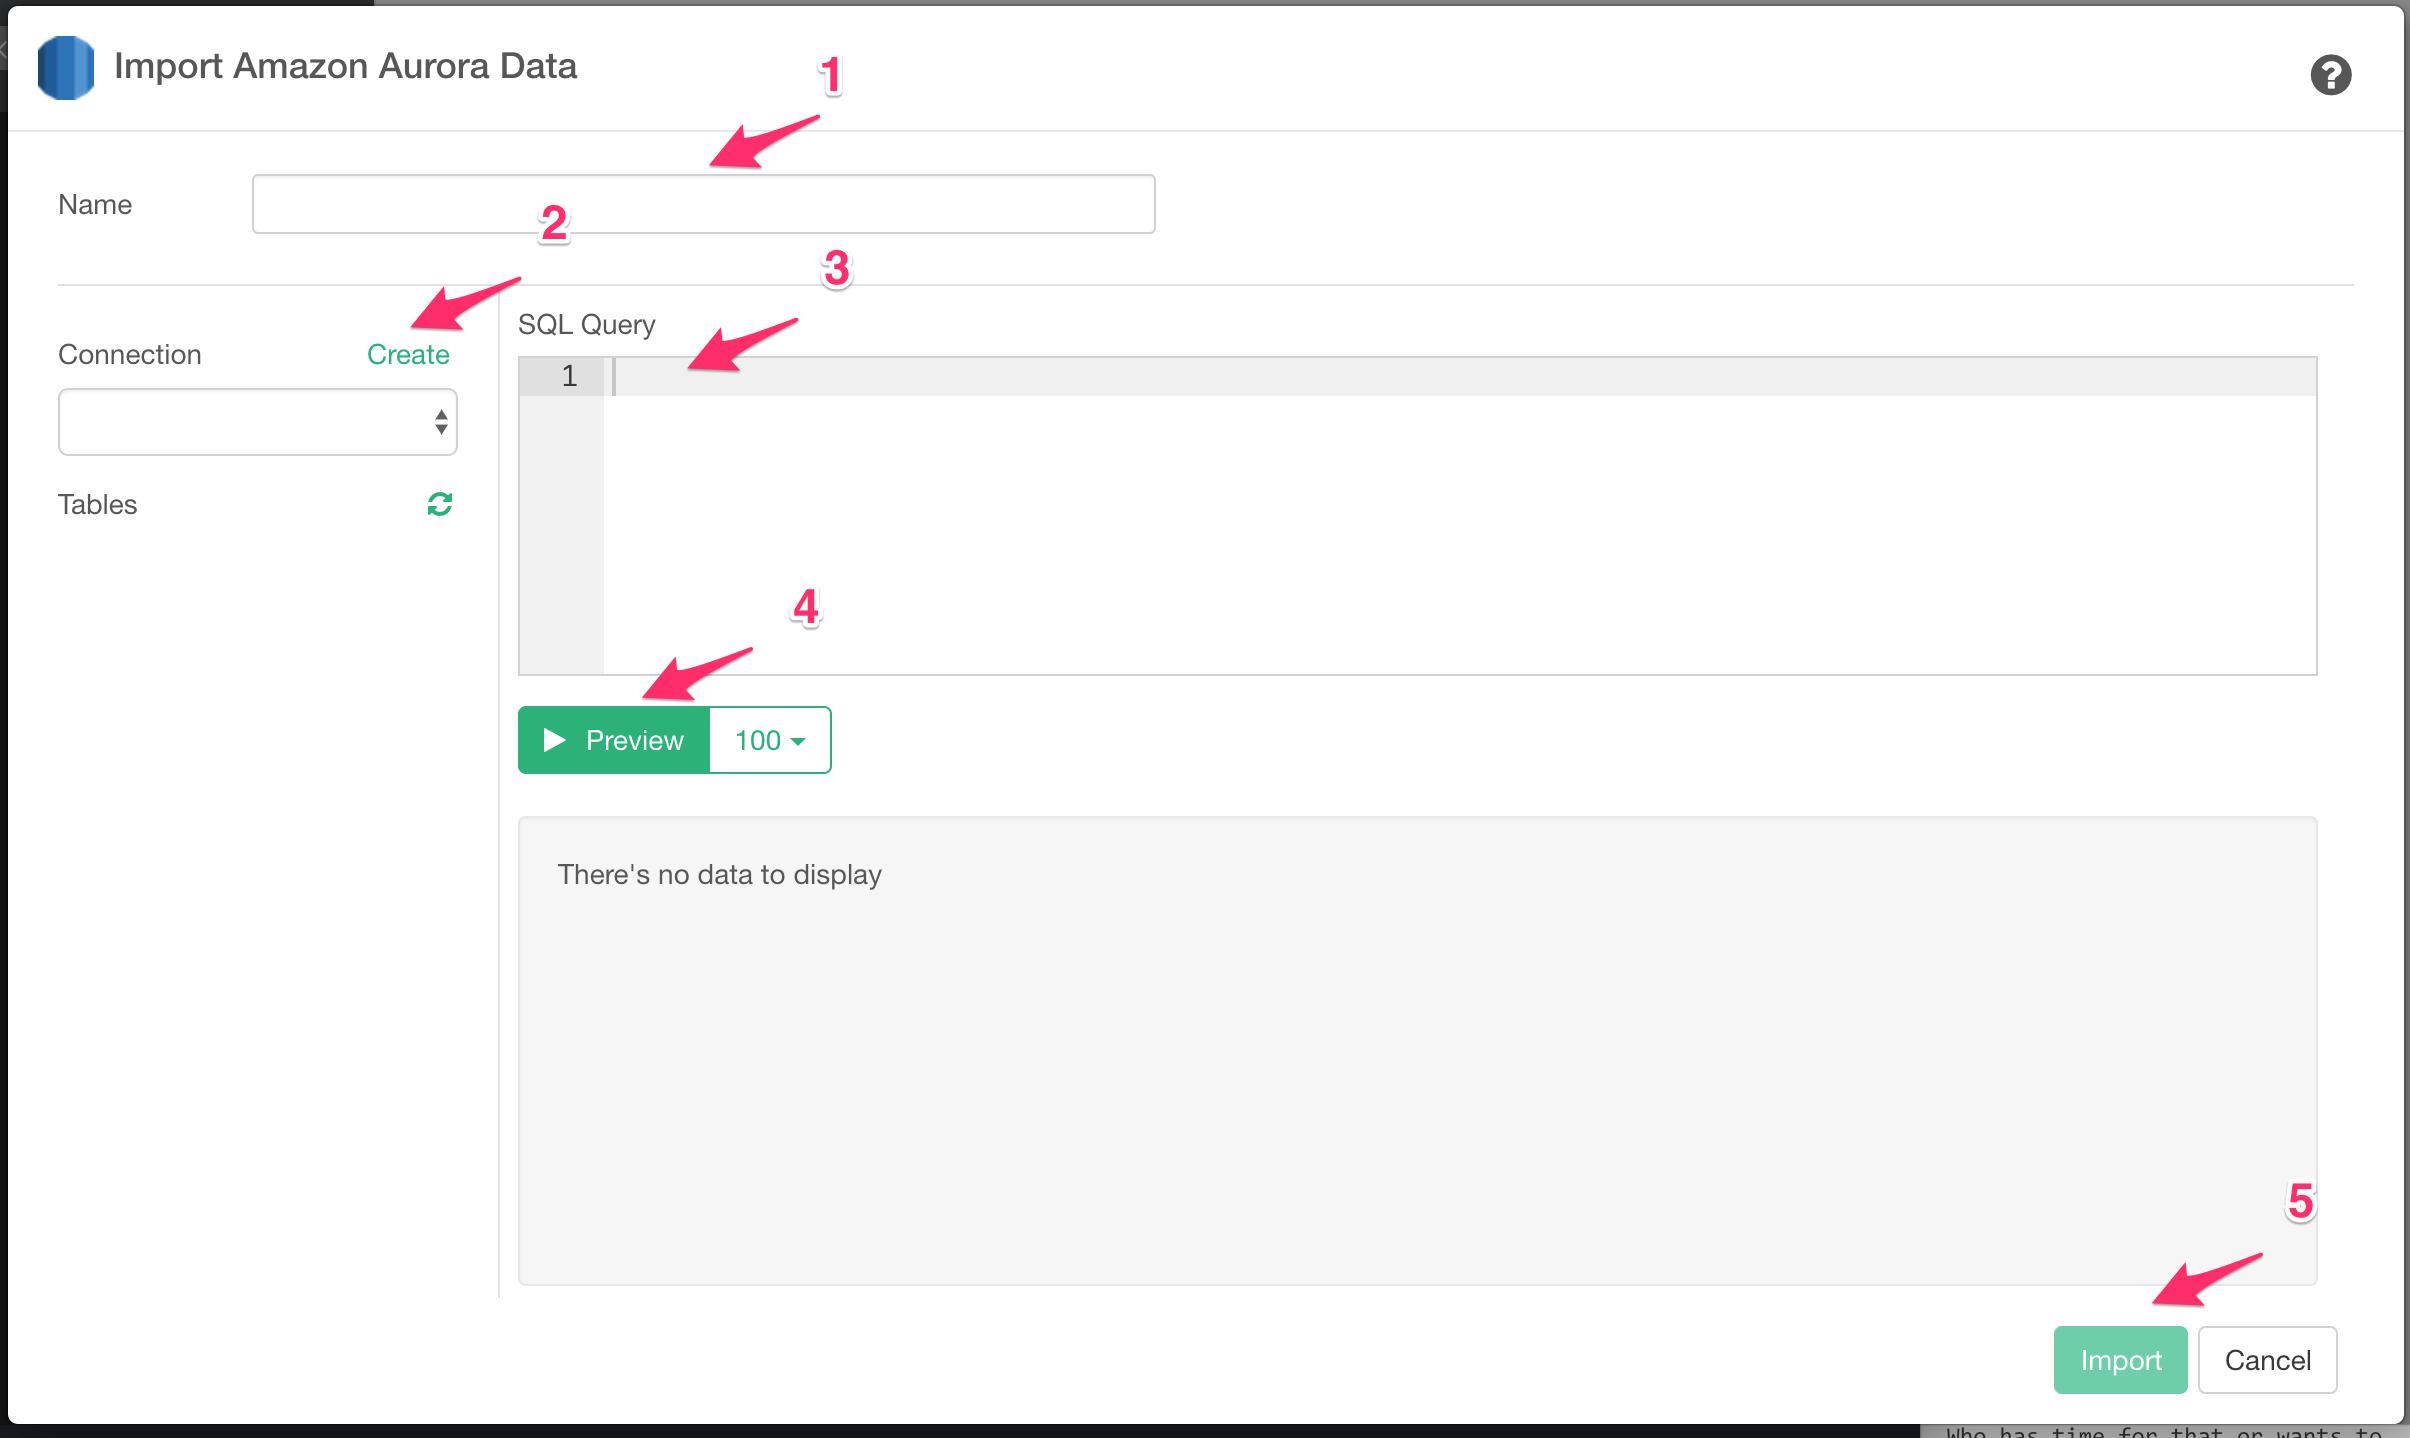
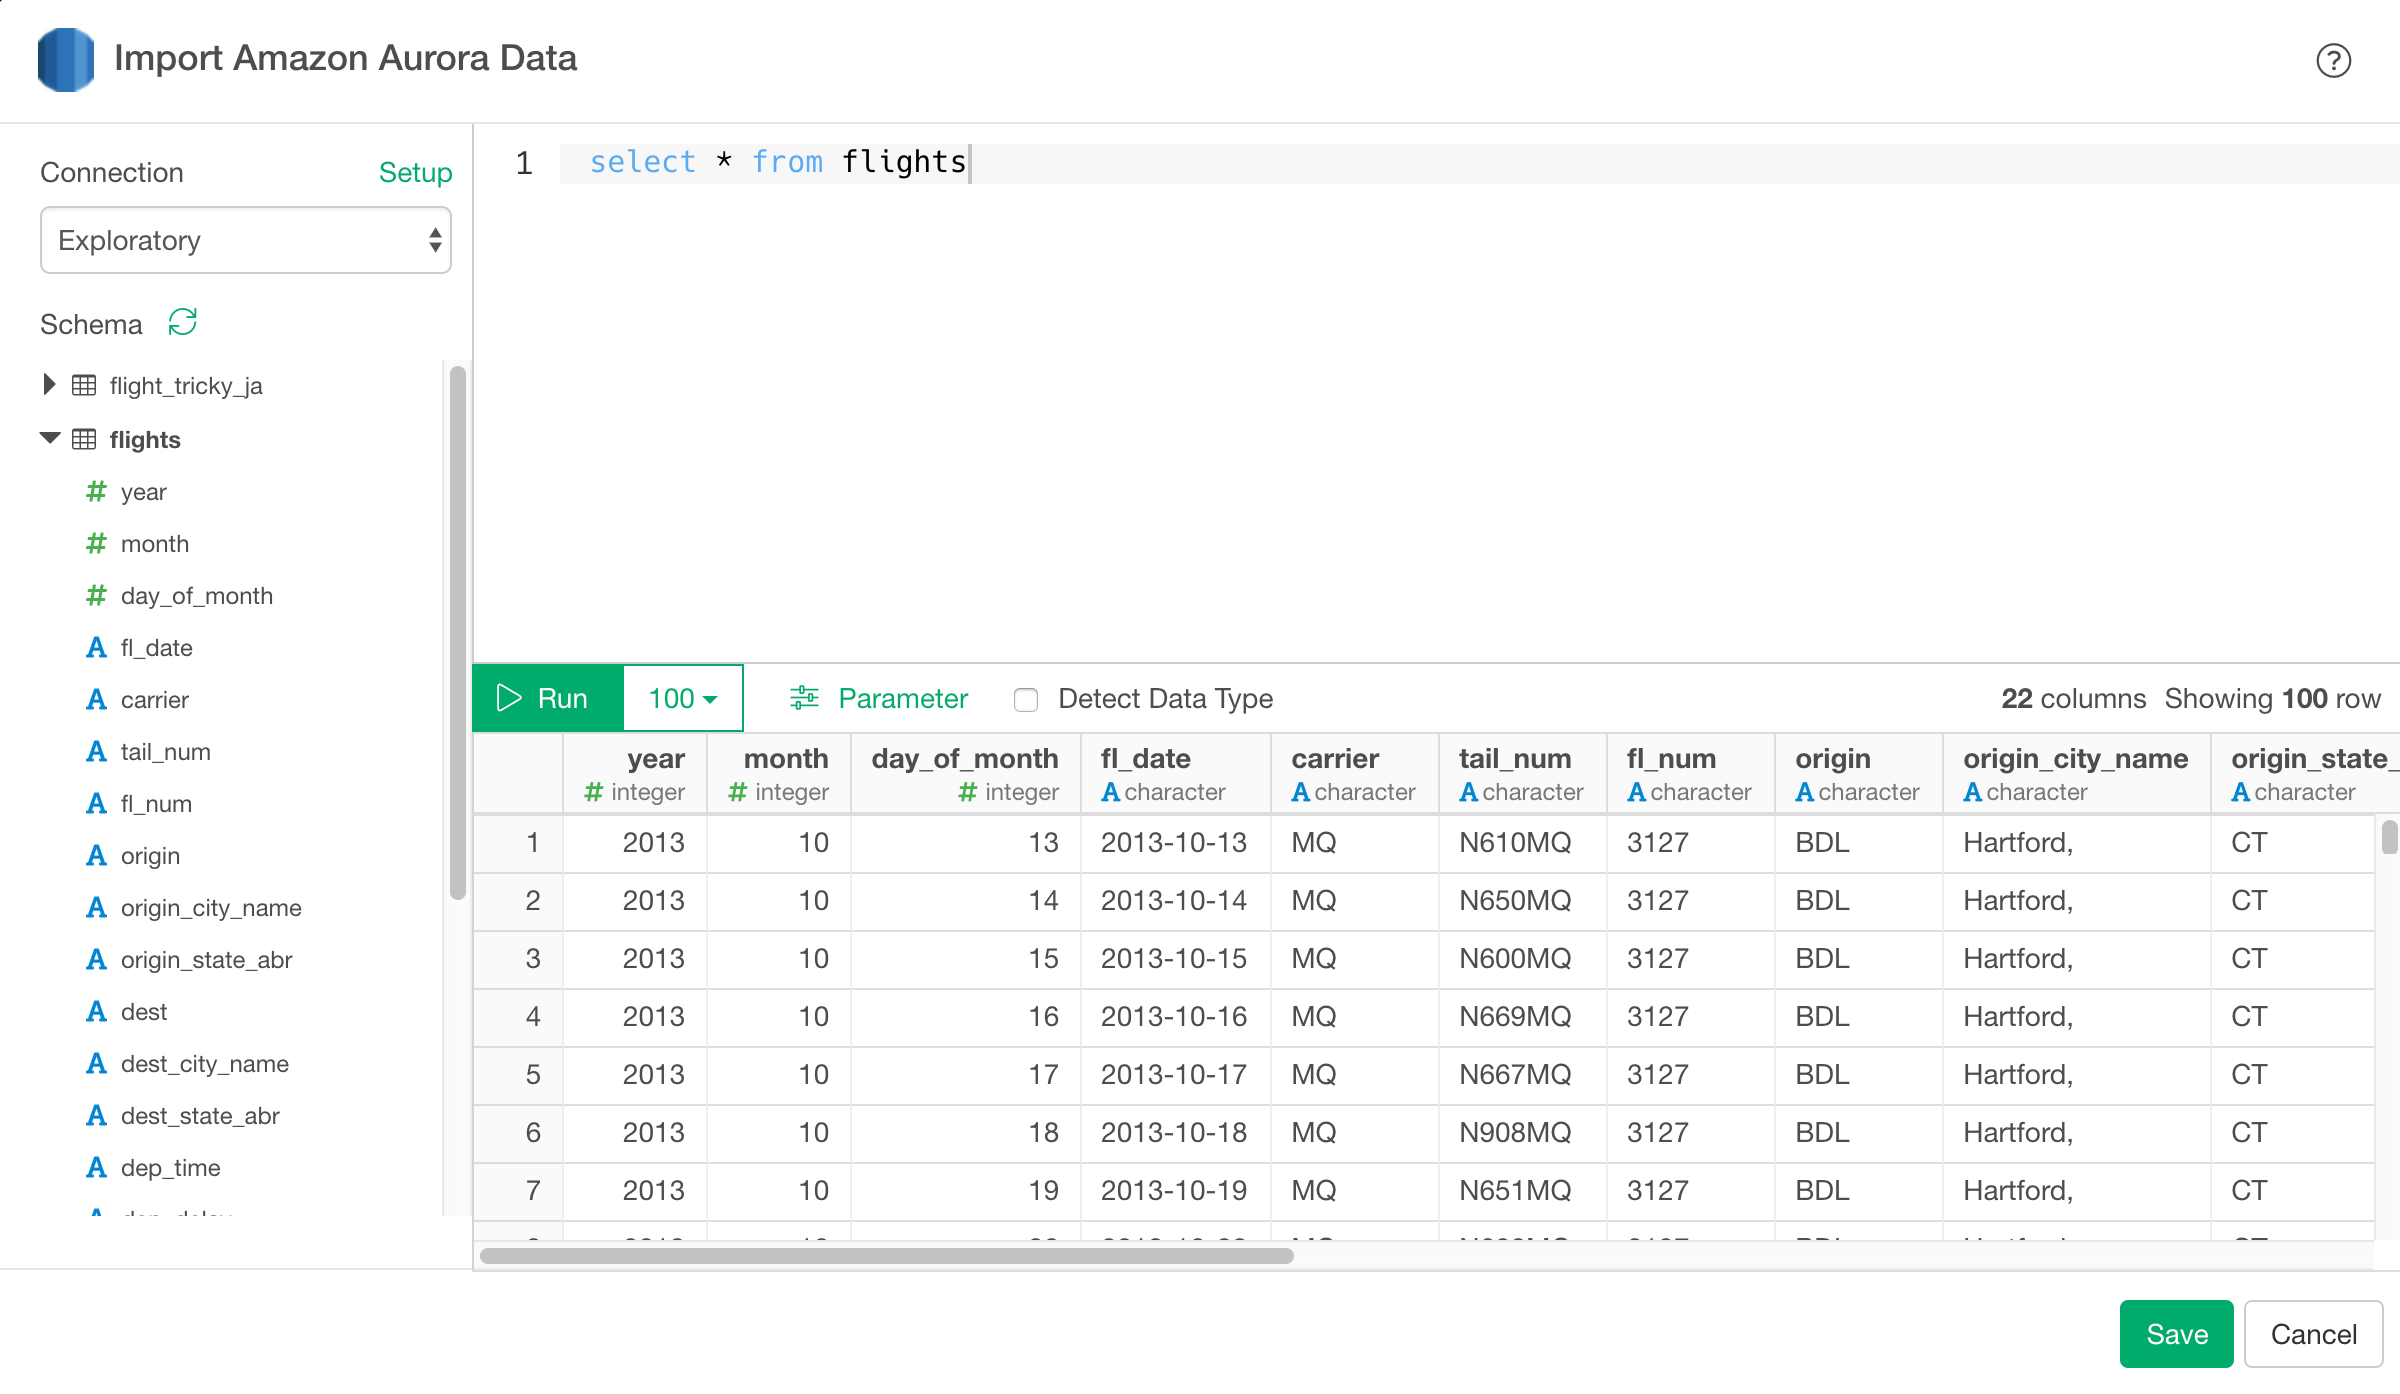
Updated Amazon Aurora

diff --git a/import/aurora.md b/import/aurora.md
@@ -18,7 +18,7 @@ Create a connection following [this instruction](connection.html).
 
 Click '+' button next to 'Data Frames' and select 'Import Database Data'.
 
-![](images/import-db.png)
+![](images/import-database.png)
 
 Click Amazon Aurora.
 
@@ -26,40 +26,56 @@ Click Amazon Aurora.
 
 ## 4. Preview and Import
 
-1. Put data frame name.
 
-2. Select connection from left box in the dialog.
+1. Select connection from left box in the dialog.
 
-3. Write a query in the input field.
+2. Write a query in the input field.
 
-4. Click "Preview" button. Then you will see the preview of the data.
+3. Click "Preview" button. Then you will see the preview of the data.
 
-5. Click "Save" button to import.
+4. Click "Save" button to import.
 
 ![](images/aurora-import.png)
 
-## 5. Using Variables in SQL
+## 4. Using Parameters in SQL
 
-First, create a custom R script.
+First, click a parameter link on the SQL Data Import Dialog.
 
-![](images/add_script.png)
+![](images/add_parameter.png)
 
-Second, define a variable in the R script and save.
+Second, define a parameter and click Save button.
 
-![](images/set_variables.png)
-
-```
-cutoff_date <- "\'2016-01-15\'"
-```
-
-Note that the ‘\’ (backslash) symbols are used to escape the single quotes, which are required to be used for characters in SQL queries.
+![](images/define_parameter.png)
 
 Finally, you can use @{} to surround a variable name inside the query like below.
 
-```
-select *
-from airline_2016_01
-where fl_date > @{cutoff_date}
-```
+  ```
+  select *
+  from airline_2016_01
+  where carrier = @{carrier}
+  ```
+  
+  If you type @ then it suggests parameters like below.
+  
+  ![](images/insert_param_in_query.png)
 
-Here's a [blog post](https://blog.exploratory.io/using-variables-in-sql-query-2740924d9f20#.bdcn5v68x) for more detail.
+
+Here's a [blog post](https://exploratory.io/note/kanaugust/An-Introduction-to-Parameter-in-Exploratory-WCO4Vgn7HJ) for more detail.
+
+## 5. Number of rows
+
+From performance point of view, we no longer show actual number of rows which can be only fetched by executing whole query again.
+
+![](images/sql_number_of_rows.png)
+
+If you still want to show the actual number of query for your query, you can do so by setting System Configuration.
+
+![](images/num_of_rows_config_menu.png)
+
+Then set "Yes" For "Show Actual Number of Rows on SQL Data Import Dialog"
+
+![](images/num_of_rows_config.png)
+
+This will show you Actual Number of Rows like below.
+
+![](images/actual_num_of_rows.png)

diff --git a/import/mysql.md b/import/mysql.md
@@ -20,15 +20,14 @@ Click MySQL.
 
 ## 3. Import
 
-1. Put data frame name.
 
-2. Select connection from left dialog box.
+1. Select connection from left dialog box.
 
-3. Write a query in the input field.
+2. Write a query in the input field.
 
-4. Click "Preview" button. Then you will see the preview of the data.
+3. Click "Preview" button. Then you will see the preview of the data.
 
-5. Click "Import" button.
+4. Click "Import" button.
 
 ![](images/mysql-import.png)
 
